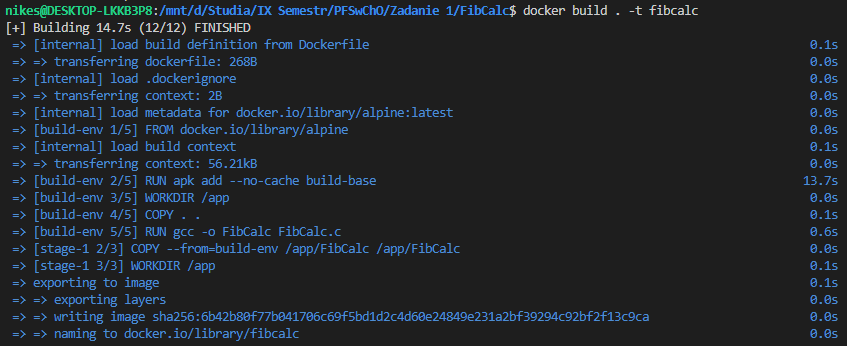
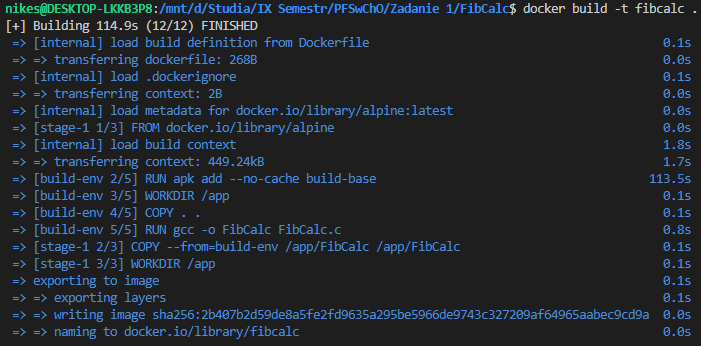
feat: add cross-compilation for amd64 and arm64

Changed region(s): [[0.0, 0.0, 0.9886, 0.9827]]

diff --git a/README.md b/README.md
@@ -8,10 +8,10 @@ Aby utworzyć repozytorium Git oraz dodać je na GitHub należy wykorzystać pol
 # 2.
 
 B. 
-Aby zbudować obraz należy wykorzystać polecenia ```docker build . -t fibcalc```.
+Aby zbudować obraz należy wykorzystać polecenia ```ddocker build -t fibcalc .```.
 
 C.
-Aby zbudować oraz uruchomić kontener należy wykorzystać polecenie ```docker run -it fibcalc```.
+Aby zbudować oraz uruchomić kontener należy wykorzystać polecenie ```docker run -it --rm fibcalc```.
 
 # 3.
 ```git add .```, ```git commit -m "feat: add semver to workflow"```, ```git tag 1.0.0```, ```git push``` oraz ```git push --tags```
